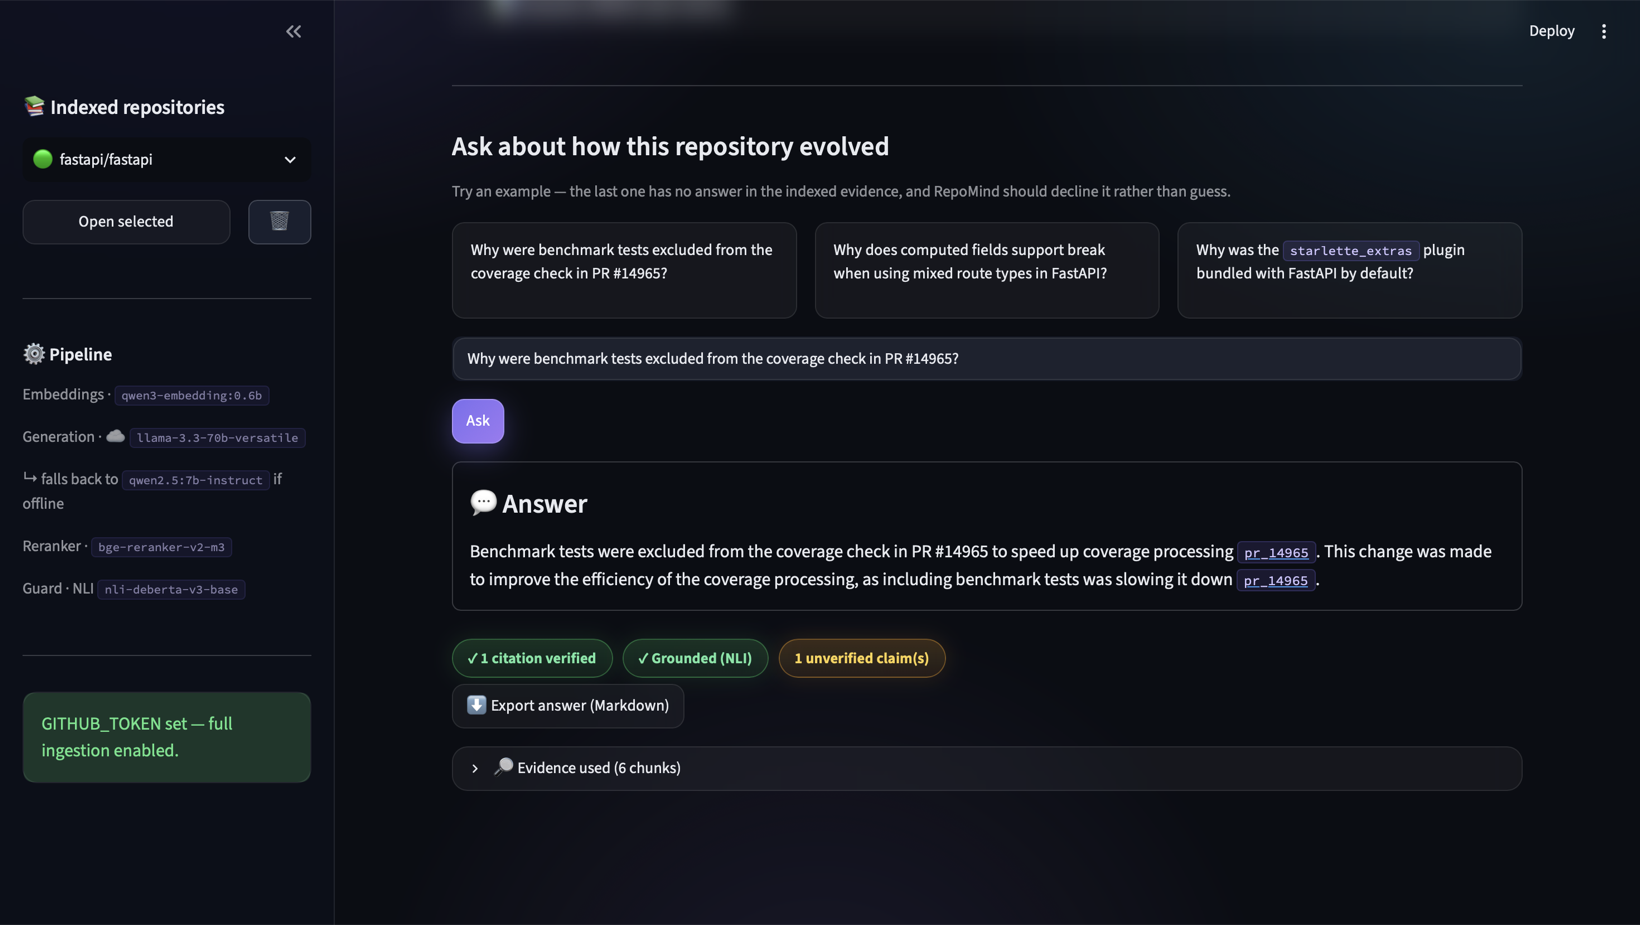
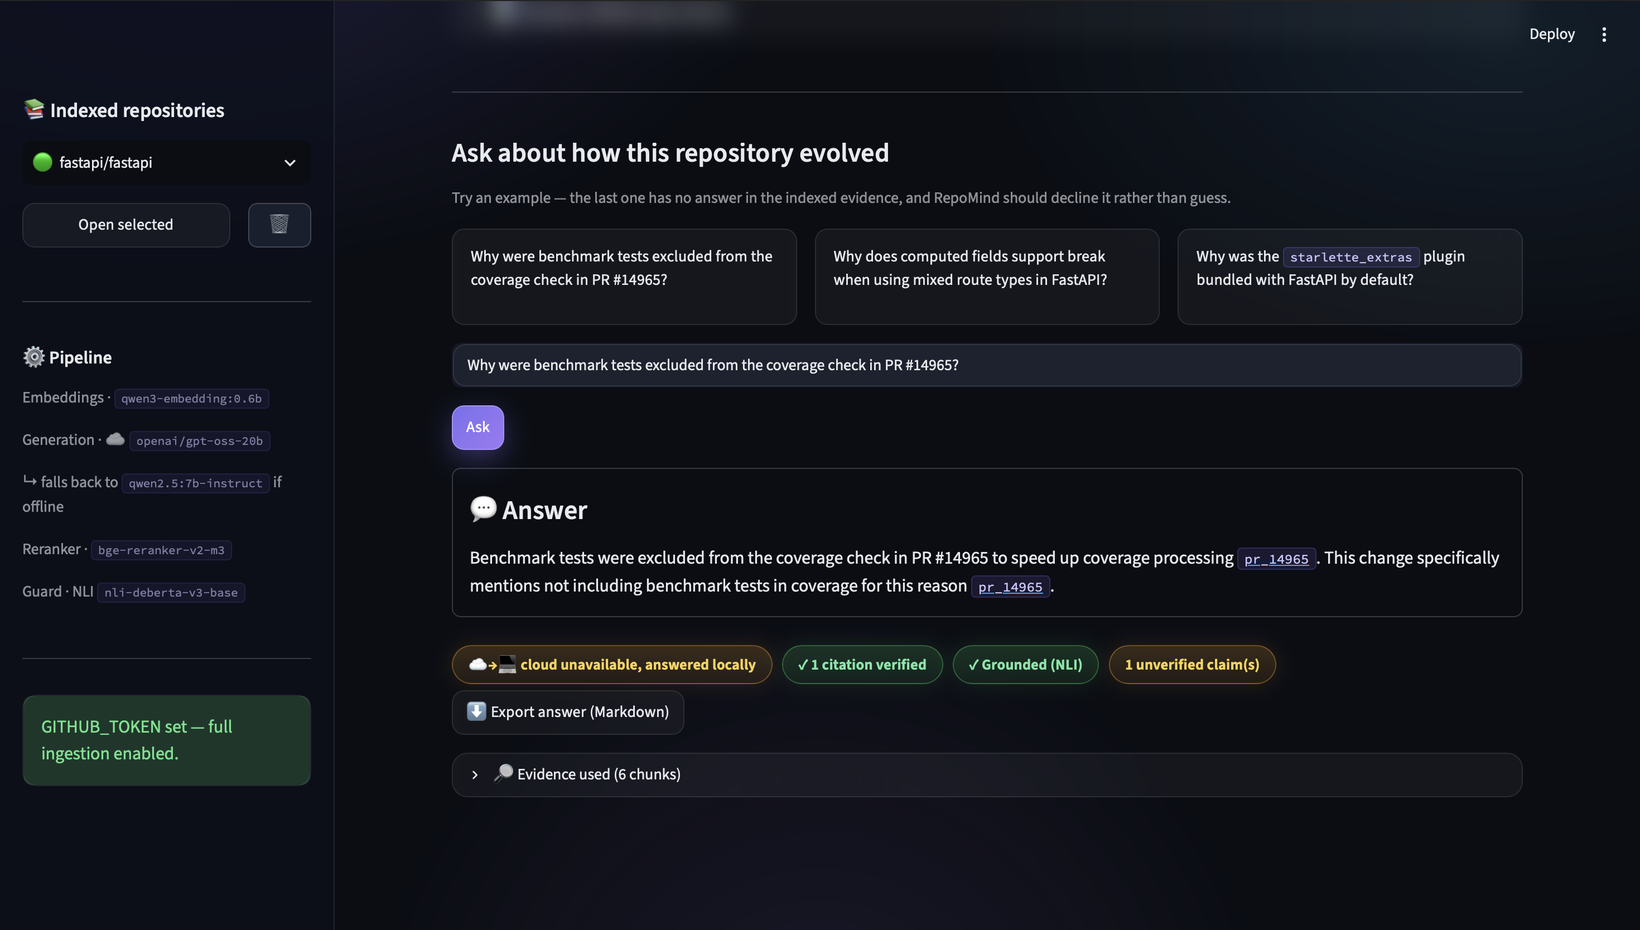
Re-shoot both screenshots and correct why MMR costs recall
The screenshots still showed llama-3.3-70b-versatile in the pipeline sidebar,
which Groq retired on 2026-08-16. They are the two headline images in the
README, so the most prominent visual in the project named a model that no
longer exists. Both re-taken against the current configuration, which reads
openai/gpt-oss-20b, and both are 1640px against a displayed width of 820 so
nothing ships at more than 2x. The stray text-selection highlight in the
refusal image is gone with it.

Both new captures carry the "cloud unavailable, answered locally" badge. Groq's
daily token allowance was spent, so generation fell through to qwen2.5:7b-instruct
and the answer is still cited, still NLI-grounded, still guard-verified. Kept
rather than re-shot on a fresh quota: the pair now demonstrates the local
fallback instead of only asserting it.

The explanation for the MMR recall loss was wrong in both README and DECISIONS.
Both said gold evidence is "typically a cluster of linked records, which is
exactly what MMR discards". Measured across the 215 golden-set questions that
carry evidence, the median gold set is one chunk, 117 of 215 have exactly one,
and only 8% exceed k=6. It is not a cluster. The real mechanism is sharper:
MMR exists to remove redundancy, so against a single target it has nothing to
gain and can only displace it. The claim sounded right and the data says
otherwise, which is the third figure in these documents to fail that test.

267 tests pass.

diff --git a/DECISIONS.md b/DECISIONS.md
@@ -69,10 +69,12 @@ would imply an experiment we never ran.
   effect. Isolating MMR (config 1 → 2, mean of `pallets/click` + `psf/requests`,
   n=20 each, generation pinned) costs **−0.280 recall@6** and **−0.188
   faithfulness**. The reranker recovers only part of it (config 3: 0.607 vs
-  0.816 for retrieval-only). Gold evidence for these questions is typically a
-  *cluster* of linked records, which is precisely what diversification discards.
-  Caveat: n=20 on a weak pinned model; a larger run should confirm before MMR is
-  removed or its lambda retuned. See `results/ablation-multi/`.
+  0.816 for retrieval-only). The mechanism is measurable: the **median question
+  has exactly one gold chunk** (117 of 215 have a single one, only 8% exceed
+  k=6). Diversification pays off when the answer is spread across redundant
+  records; against a single target it has no upside and can only push that chunk
+  out. Caveat: n=20 on a weak pinned model; a larger run should confirm before
+  MMR is removed or its lambda retuned. See `results/ablation-multi/`.
 
 ## FINAL_TOP_K = 6
 - **Chose:** 6 chunks handed to the generator

diff --git a/README.md b/README.md
@@ -240,9 +240,11 @@ Three findings, each replicated on both repositories:
 
 **MMR is the most harmful stage.** Isolating it costs −0.280 recall and −0.188
 faithfulness. `DECISIONS.md` predicted it in those words, *"diversification can
-push a relevant near-duplicate out of the top-k"*, but nobody had measured it. Gold
-evidence here is typically a *cluster* of linked records, which is exactly what
-MMR discards.
+push a relevant near-duplicate out of the top-k"*, but nobody had measured it.
+The reason is visible in the gold sets: **the median question has exactly one
+correct chunk**, and 117 of 215 have only one. MMR exists to remove redundancy,
+so where there is a single target there is nothing for it to gain — it can only
+displace that chunk in favour of a more dissimilar one.
 
 **BM25 alone outperforms the full hybrid pipeline** on every metric shown. That
 is the opposite of the assumption behind hybrid retrieval.
